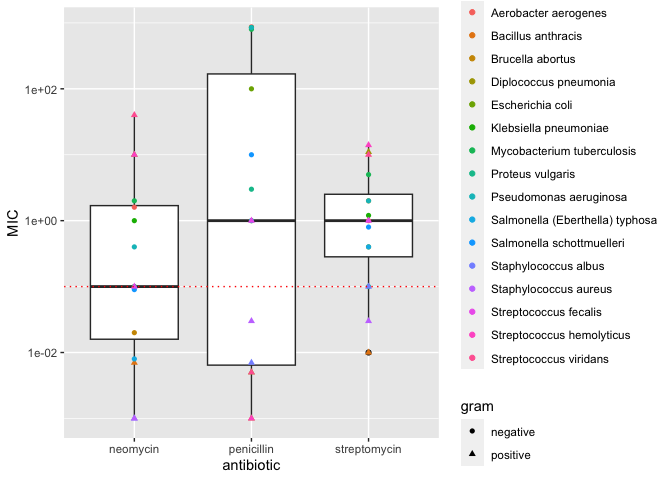
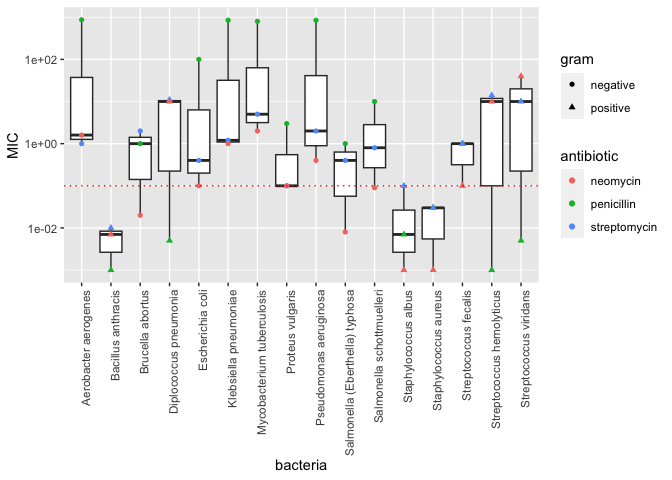
Fix challenge 5

diff --git a/challenges/c05-antibiotics-assignment.md b/challenges/c05-antibiotics-assignment.md
@@ -271,15 +271,16 @@ df_antibiotics_long %>% knitr::kable()
 ``` r
 #Visual 1
 df_antibiotics_long %>% 
-  ggplot(aes(antibiotic, MIC)) +
+  ggplot(aes(bacteria, MIC)) +
   geom_boxplot() + 
-  geom_point(mapping = aes(color = bacteria, shape = gram)) +
+  geom_point(mapping = aes(color = antibiotic, shape = gram )) +
   geom_hline(
     yintercept = 0.1,
     linetype = "dotted",
     color = "red"
   ) +
-  scale_y_log10() 
+  scale_y_log10() +
+  theme(axis.text.x = element_text(angle = 90, hjust = 1))
 ```
 
 ![](c05-antibiotics-assignment_files/figure-gfm/unnamed-chunk-1-1.png)<!-- -->
@@ -319,9 +320,43 @@ your other visuals.
 
 ``` r
 # WRITE YOUR CODE HERE
-df_antibiotics%>% 
+
+df_antibiotics_genus <- df_antibiotics %>% 
+  mutate(name = bacteria) %>% 
+  separate(name, c('genus', 'name'))
+```
+
+    ## Warning: Expected 2 pieces. Additional pieces discarded in 1 rows [10].
+
+``` r
+df_antibiotics_genus
+```
+
+    ## # A tibble: 16 × 7
+    ##    bacteria                        penicillin strept…¹ neomy…² gram  genus name 
+    ##    <chr>                                <dbl>    <dbl>   <dbl> <chr> <chr> <chr>
+    ##  1 Aerobacter aerogenes               870         1      1.6   nega… Aero… aero…
+    ##  2 Brucella abortus                     1         2      0.02  nega… Bruc… abor…
+    ##  3 Bacillus anthracis                   0.001     0.01   0.007 posi… Baci… anth…
+    ##  4 Diplococcus pneumonia                0.005    11     10     posi… Dipl… pneu…
+    ##  5 Escherichia coli                   100         0.4    0.1   nega… Esch… coli 
+    ##  6 Klebsiella pneumoniae              850         1.2    1     nega… Kleb… pneu…
+    ##  7 Mycobacterium tuberculosis         800         5      2     nega… Myco… tube…
+    ##  8 Proteus vulgaris                     3         0.1    0.1   nega… Prot… vulg…
+    ##  9 Pseudomonas aeruginosa             850         2      0.4   nega… Pseu… aeru…
+    ## 10 Salmonella (Eberthella) typhosa      1         0.4    0.008 nega… Salm… Eber…
+    ## 11 Salmonella schottmuelleri           10         0.8    0.09  nega… Salm… scho…
+    ## 12 Staphylococcus albus                 0.007     0.1    0.001 posi… Stap… albus
+    ## 13 Staphylococcus aureus                0.03      0.03   0.001 posi… Stap… aure…
+    ## 14 Streptococcus fecalis                1         1      0.1   posi… Stre… feca…
+    ## 15 Streptococcus hemolyticus            0.001    14     10     posi… Stre… hemo…
+    ## 16 Streptococcus viridans               0.005    10     40     posi… Stre… viri…
+    ## # … with abbreviated variable names ¹streptomycin, ²neomycin
+
+``` r
+df_antibiotics_genus%>% 
   ggplot(aes( penicillin,streptomycin, shape = gram )) + 
-  geom_point(mapping = aes(color = bacteria)) +
+  geom_point(mapping = aes(color = genus)) +
   geom_hline(
     yintercept = 0.1,
     linetype = "dotted",
@@ -333,7 +368,7 @@ df_antibiotics%>%
     color = "red"
   ) +
   scale_y_log10() +
-  scale_x_log10()
+  scale_x_log10() 
 ```
 
 ![](c05-antibiotics-assignment_files/figure-gfm/q1.3-1.png)<!-- -->
@@ -350,7 +385,7 @@ your other visuals.
 ``` r
 df_antibiotics_long %>% 
   ggplot(aes(MIC, bacteria)) +
-  geom_col(mapping = aes(fill = antibiotic)) + 
+  geom_col(position = "dodge", mapping = aes(fill = antibiotic)) + 
   scale_x_log10()+
   geom_vline(
     xintercept = 0.1,
@@ -447,10 +482,16 @@ and in 1984 *Streptococcus fecalis* was renamed *Enterococcus fecalis*
 
 \- What is your response to the question above?
 
-\- Diplococcus pneumoniae was renamed to Streptococcus pneumonia because
-it requires a high streptomycin MIC value at around 10. Furthermore,
-other Streptococcus named bacteria also had a large MIC value that
-ranges from 1 to around 15.
+\- Diplococcus pneumoniae has a high streptomycin MIC value of around 10
+which reflects a certain aspect of the biological structure of the
+bacteria. Other bacteria with the genus of Streptococcus also have a
+high streptomycin MIC value which indicates those bacteria also have
+similar biological structure. Based on the reactions to the MIC,
+scientists can look more closely into the biological structure of a
+bacteria, and rename the bacteria's genus based on that similar
+biological structure. Therefore, Diplococcus pneumoniae was renamed to
+Streptococcus pneumonia most likely because it shared a similar
+biological structure as other bacteria with the genus of Streptococcus.
 
 \- Which of your visuals above (1 through 5) is **most effective** at
 helping to answer this question?
